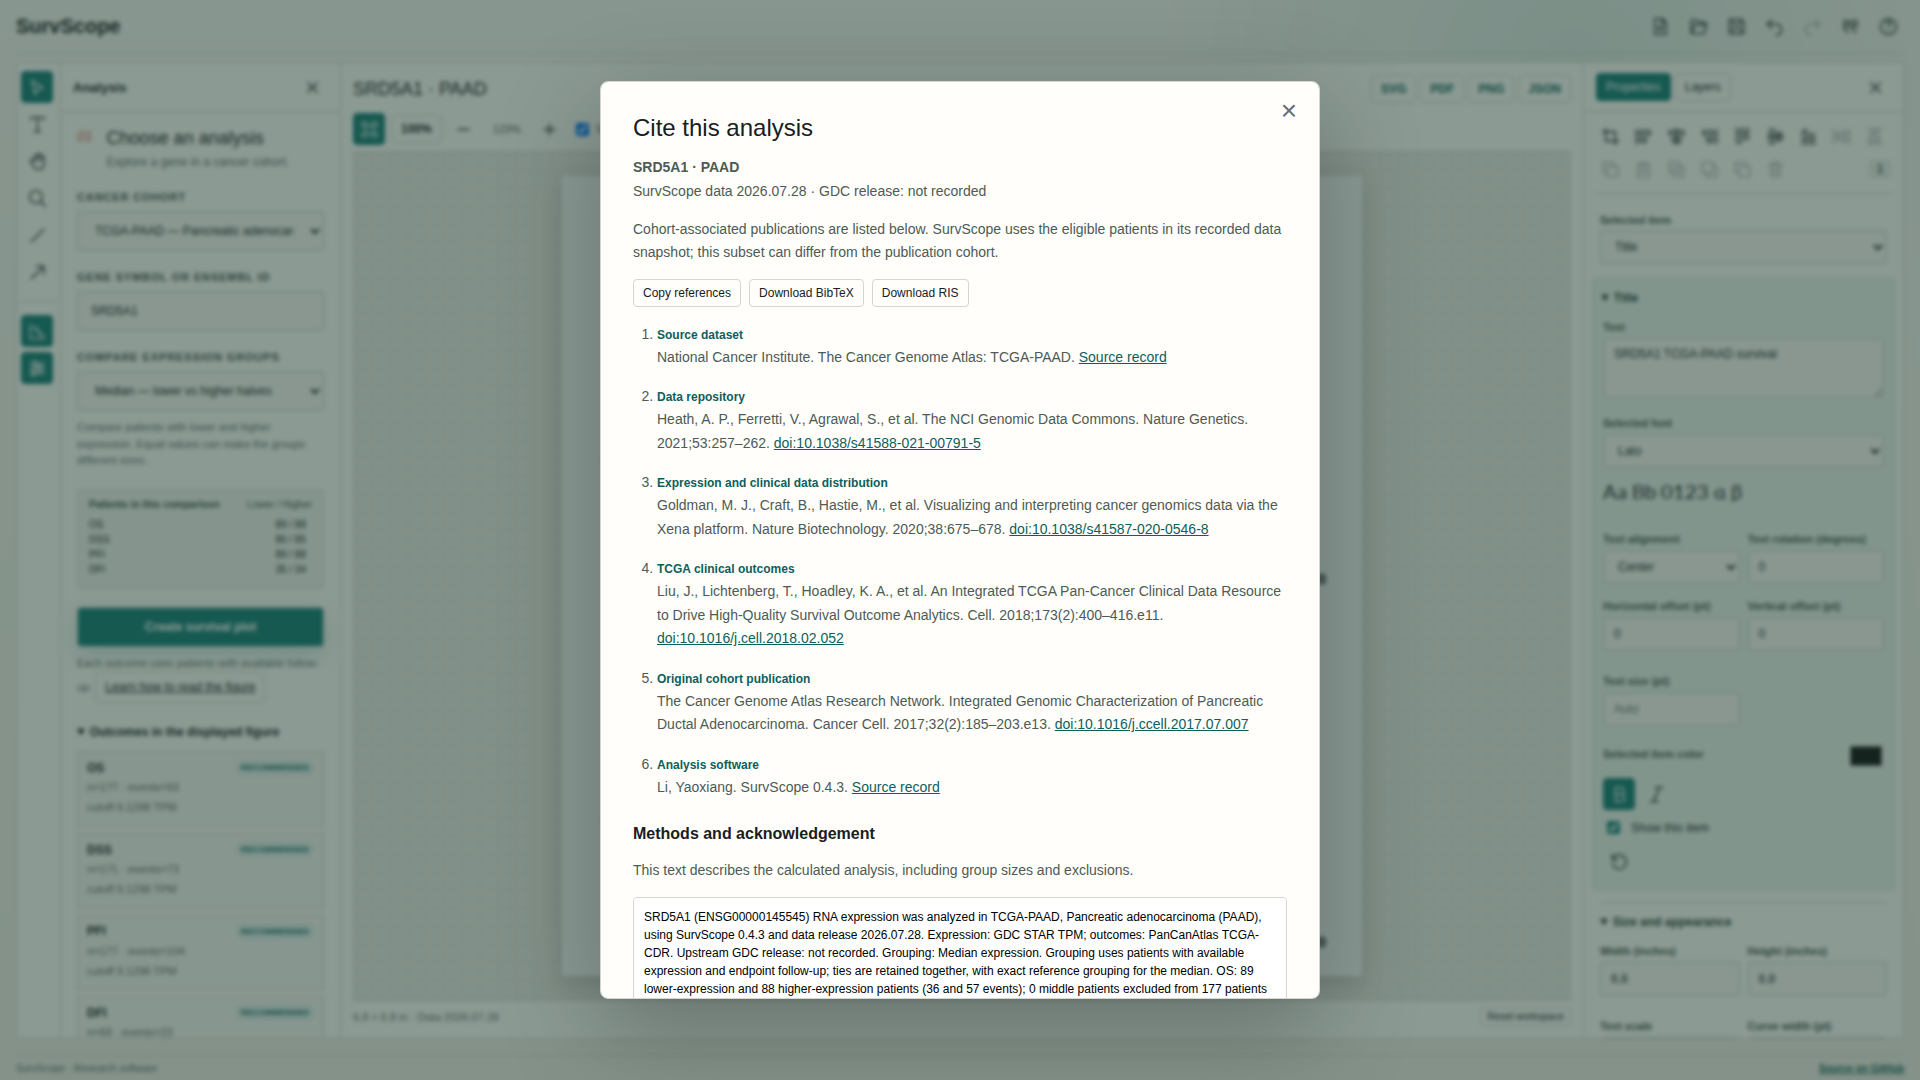
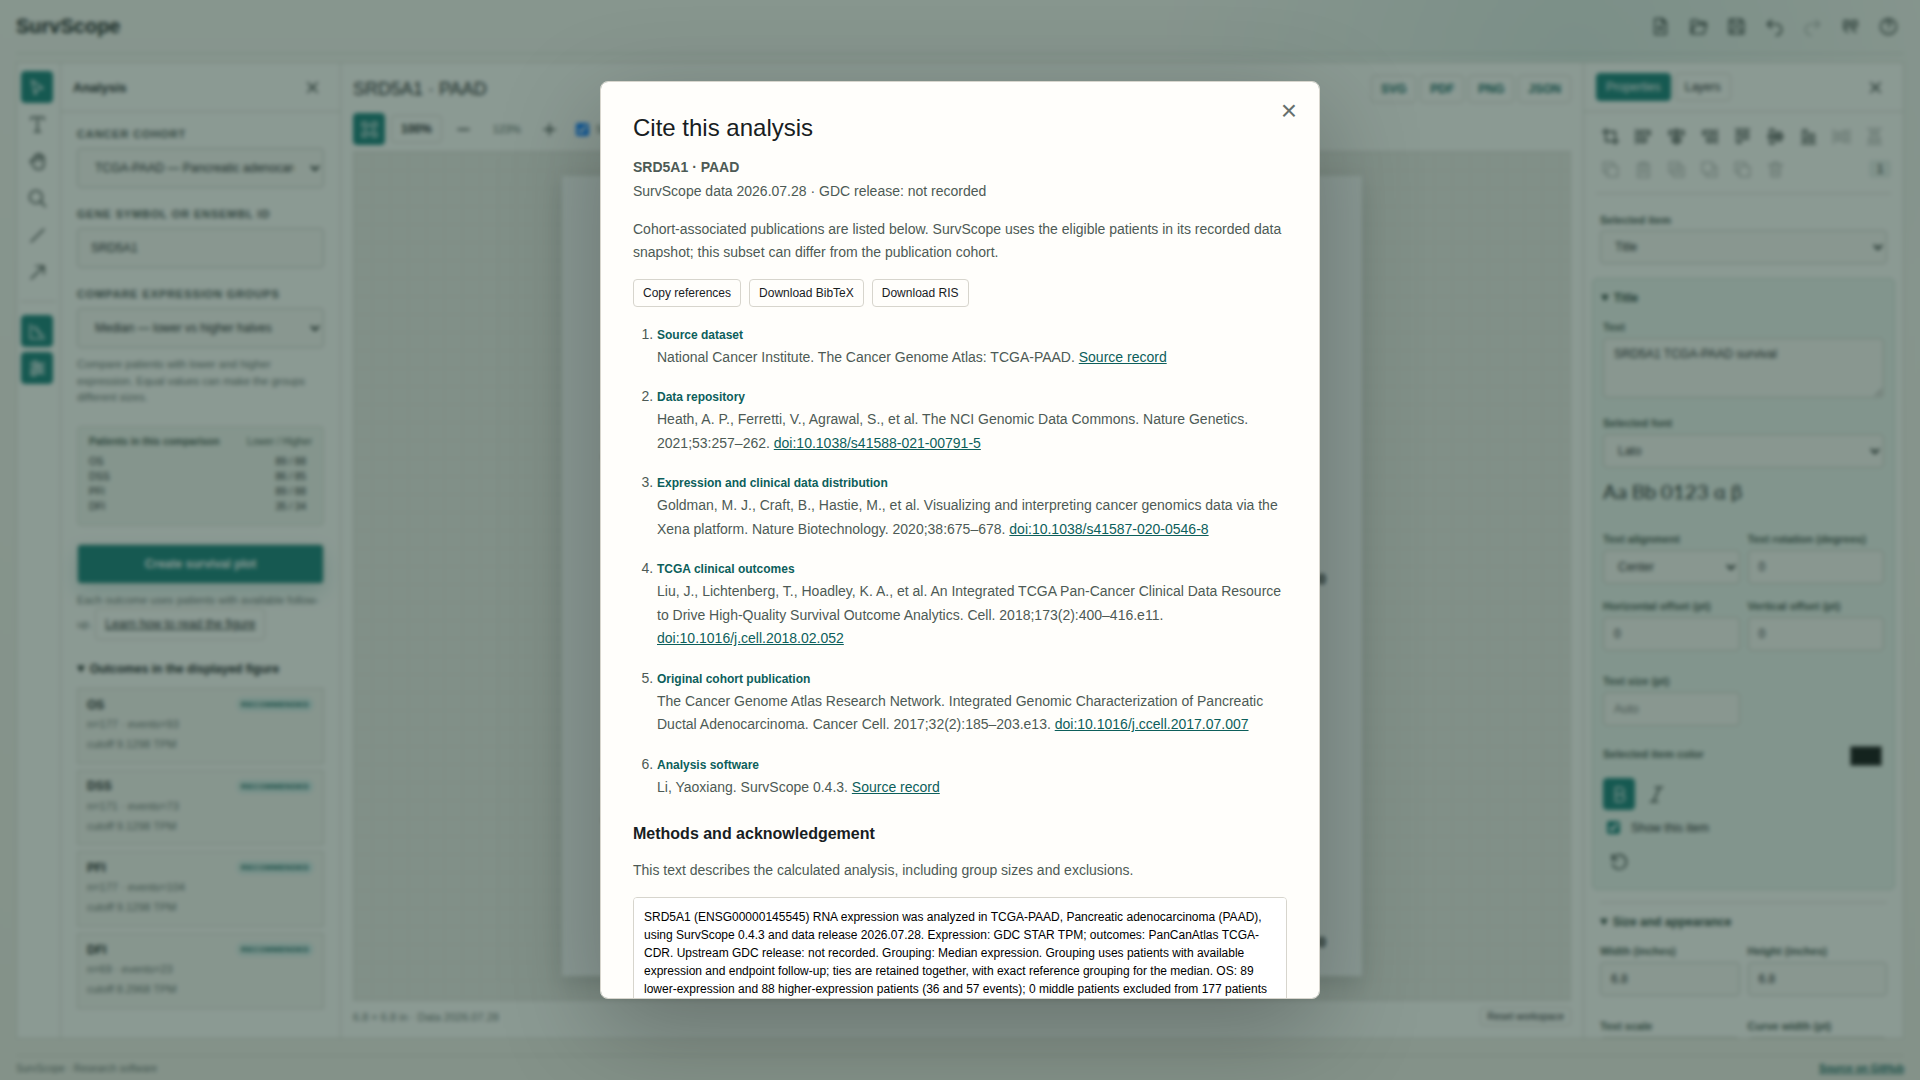
Remove redundant analysis panel introduction

diff --git a/web/src/styles.css b/web/src/styles.css
@@ -68,14 +68,12 @@ select {
   z-index: 3;
 }
 
-.control-heading,
 .result-heading > div:first-child {
   display: flex;
   gap: 14px;
   align-items: flex-start;
 }
 
-.control-heading > span,
 .result-heading > div:first-child > span {
   color: var(--coral);
   font-size: 14px;
@@ -88,7 +86,6 @@ h2 {
   font-weight: 500;
 }
 
-.control-heading p,
 .result-heading p {
   margin: 5px 0 0;
   color: var(--muted);
@@ -788,12 +785,12 @@ button:disabled {
   overflow: auto;
   font-size: 12px;
 }
-.studio .controls h2 {
-  font-size: 18px;
-}
 .studio .controls > label,
 .studio .controls fieldset {
   margin-top: 20px;
+}
+.studio .controls > label:first-child {
+  margin-top: 0;
 }
 .studio .controls select,
 .studio .controls input {

diff --git a/web/tests/e2e/site.spec.ts b/web/tests/e2e/site.spec.ts
@@ -16,9 +16,7 @@ test("renders the reference plot without external runtime requests", async ({
     page.getByRole("link", { name: "SurvScope", exact: true }),
   ).toBeVisible();
   await page.getByRole("button", { name: "Toggle Analysis panel" }).click();
-  await expect(
-    page.getByRole("heading", { name: "Choose an analysis" }),
-  ).toBeVisible();
+  await expect(page.getByLabel("Cancer cohort")).toBeVisible();
   await expect(page.getByText("Transparent by design")).toHaveCount(0);
   await expect(
     page.getByRole("img", { name: "SRD5A1 TCGA-PAAD survival" }),

diff --git a/web/src/App.tsx b/web/src/App.tsx
@@ -332,13 +332,6 @@ export default function App() {
         onExport={(kind) => void exportPlot(kind)}
         analysisControls={
           <form className="controls" onSubmit={runAnalysis}>
-            <div className="control-heading">
-              <span>01</span>
-              <div>
-                <h2>Choose an analysis</h2>
-                <p>Explore a gene in a cancer cohort.</p>
-              </div>
-            </div>
             <label>
               <span>Cancer cohort</span>
               <select
